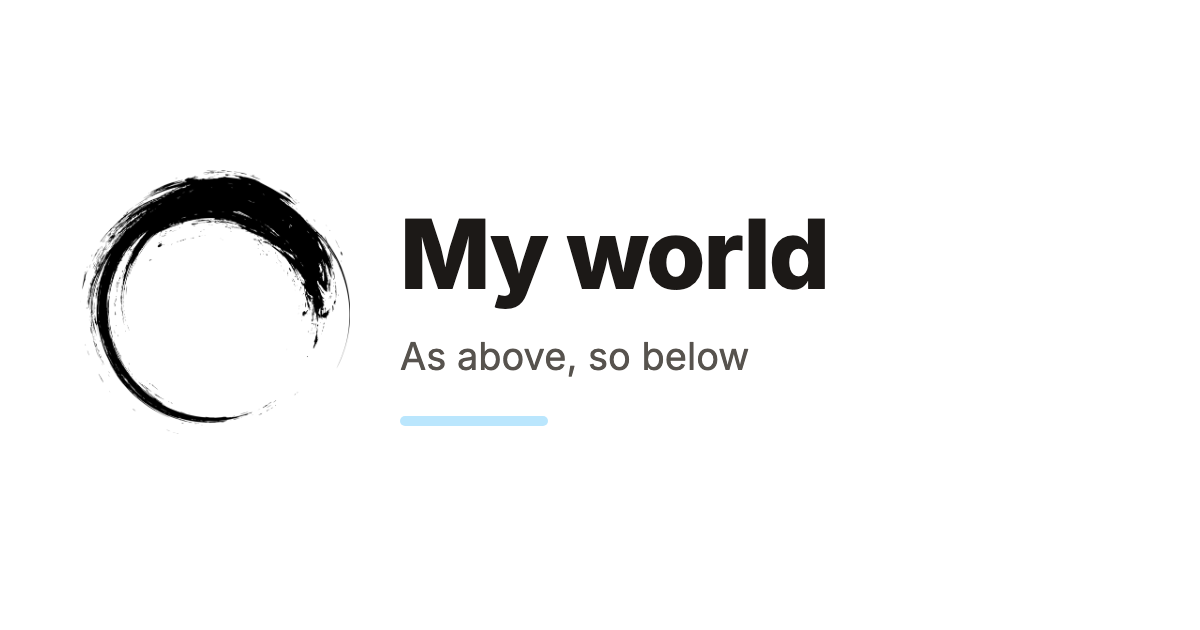
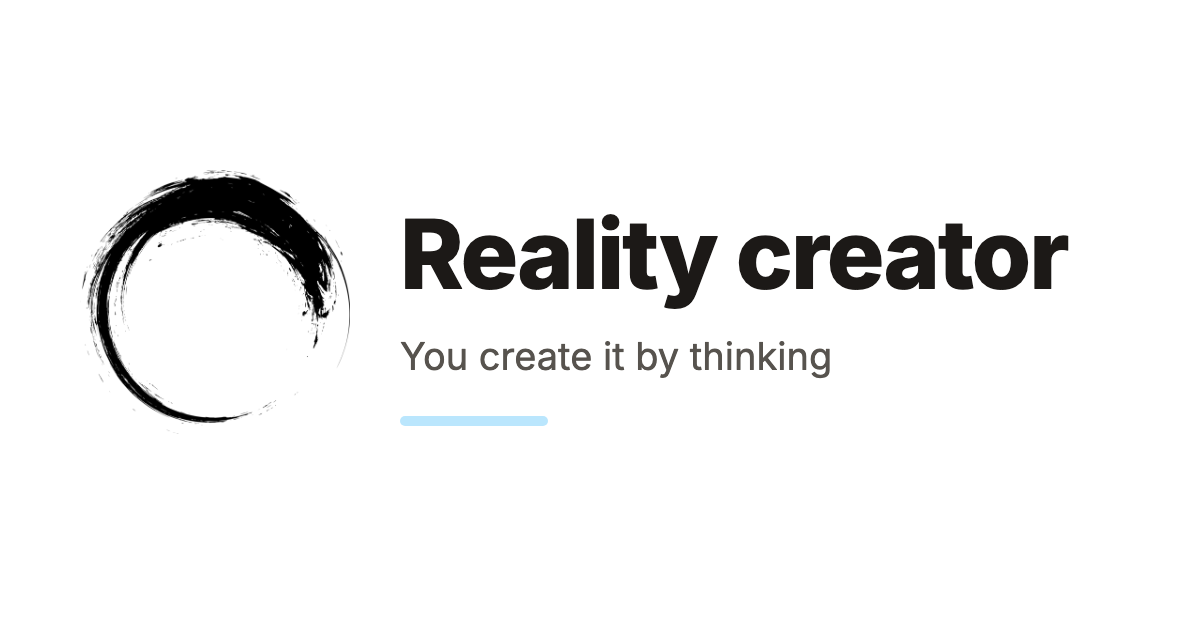
build

Changed region(s): [[0.3392, 0.3317, 0.8942, 0.5127], [0.3392, 0.5429, 0.7092, 0.6032]]

diff --git a/ru/my-world.html b/ru/my-world.html
@@ -15,11 +15,11 @@
 <link rel="stylesheet" href="https://fonts.googleapis.com/css2?family=Inter:ital,opsz,wght@0,14..32,100..900;1,14..32,100..900&display=swap" />
 
 <!-- Begin Bridgetown SEO tag v7.0.1 -->
-<title>Мой мир | tellothers.com</title>
-<meta property="og:title" content="Мой мир" />
+<title>Создатель реальности | tellothers.com</title>
+<meta property="og:title" content="Создатель реальности" />
 <meta property="og:locale" content="ru_RU" />
-<meta name="description" content="Что вверху, то и внизу. Мир — это на самом деле проекция сознания. Можно просто представить новую версию мира и начать в ней жить." />
-<meta property="og:description" content="Что вверху, то и внизу. Мир — это на самом деле проекция сознания. Можно просто представить новую версию мира и начать в ней жить." />
+<meta name="description" content="Думая, ты её создаёшь. Мир — это на самом деле проекция сознания. Можно просто представить новую версию мира и начать в ней жить." />
+<meta property="og:description" content="Думая, ты её создаёшь. Мир — это на самом деле проекция сознания. Можно просто представить новую версию мира и начать в ней жить." />
 <link rel="canonical" href="https://tellothers.com/ru/my-world" />
 <meta property="og:url" content="https://tellothers.com/ru/my-world" />
 <meta property="og:site_name" content="tellothers.com" />
@@ -28,7 +28,7 @@
 <meta property="article:published_time" content="2026-06-15T03:55:05-07:00" />
 <meta name="twitter:card" content="summary_large_image" />
 <meta property="twitter:image" content="https://tellothers.com/images/og/my-world.ru.png" />
-<meta property="twitter:title" content="Мой мир" />
+<meta property="twitter:title" content="Создатель реальности" />
 <!-- End Bridgetown SEO tag -->
 
 
@@ -38,7 +38,7 @@
 
 <meta property="og:image:width" content="1200" />
 <meta property="og:image:height" content="630" />
-<meta property="og:image:alt" content="Мой мир" />
+<meta property="og:image:alt" content="Создатель реальности" />
 <meta property="og:locale:alternate" content="en_US" />
 
 <script type="application/ld+json">
@@ -95,11 +95,11 @@
       </p>
 
     <h1 class="text-4xl sm:text-5xl font-bold tracking-tight mb-4">
-      Мой мир
+      Создатель реальности
     </h1>
 
       <p class="text-lg sm:text-xl text-stone-500 leading-snug">
-        Что вверху, то и внизу
+        Думая, ты её создаёшь
       </p>
   </header>
 
@@ -131,14 +131,14 @@
 {
   "@context": "https://schema.org",
   "@type": "Article",
-  "name": "Мой мир",
-  "headline": "Мой мир",
-  "description": "Что вверху, то и внизу",
+  "name": "Создатель реальности",
+  "headline": "Создатель реальности",
+  "description": "Думая, ты её создаёшь",
   "url": "https://tellothers.com/ru/my-world",
   "mainEntityOfPage": "https://tellothers.com/ru/my-world",
   "image": "https://tellothers.com/images/og/my-world.ru.png",
   "datePublished": "2026-06-15T17:55:05+07:00",
-  "dateModified": "2026-10-25T23:10:12+07:00",
+  "dateModified": "2026-10-25T23:11:15+07:00",
   "inLanguage": "ru",
   "isPartOf": {
     "@type": "WebSite",

diff --git a/my-world.html b/my-world.html
@@ -15,11 +15,11 @@
 <link rel="stylesheet" href="https://fonts.googleapis.com/css2?family=Inter:ital,opsz,wght@0,14..32,100..900;1,14..32,100..900&display=swap" />
 
 <!-- Begin Bridgetown SEO tag v7.0.1 -->
-<title>My world | tellothers.com</title>
-<meta property="og:title" content="My world" />
+<title>Reality creator | tellothers.com</title>
+<meta property="og:title" content="Reality creator" />
 <meta property="og:locale" content="en_US" />
-<meta name="description" content="As above, so below. The world is a projection of consciousness. You can just imagine a new version of the world and start inhabiting it." />
-<meta property="og:description" content="As above, so below. The world is a projection of consciousness. You can just imagine a new version of the world and start inhabiting it." />
+<meta name="description" content="You create it by thinking. The world is a projection of consciousness. You can just imagine a new version of the world and start inhabiting it." />
+<meta property="og:description" content="You create it by thinking. The world is a projection of consciousness. You can just imagine a new version of the world and start inhabiting it." />
 <link rel="canonical" href="https://tellothers.com/my-world" />
 <meta property="og:url" content="https://tellothers.com/my-world" />
 <meta property="og:site_name" content="tellothers.com" />
@@ -28,7 +28,7 @@
 <meta property="article:published_time" content="2026-06-15T03:55:05-07:00" />
 <meta name="twitter:card" content="summary_large_image" />
 <meta property="twitter:image" content="https://tellothers.com/images/og/my-world.en.png" />
-<meta property="twitter:title" content="My world" />
+<meta property="twitter:title" content="Reality creator" />
 <!-- End Bridgetown SEO tag -->
 
 
@@ -38,7 +38,7 @@
 
 <meta property="og:image:width" content="1200" />
 <meta property="og:image:height" content="630" />
-<meta property="og:image:alt" content="My world" />
+<meta property="og:image:alt" content="Reality creator" />
 <meta property="og:locale:alternate" content="ru_RU" />
 
 <script type="application/ld+json">
@@ -95,11 +95,11 @@
       </p>
 
     <h1 class="text-4xl sm:text-5xl font-bold tracking-tight mb-4">
-      My world
+      Reality creator
     </h1>
 
       <p class="text-lg sm:text-xl text-stone-500 leading-snug">
-        As above, so below
+        You create it by thinking
       </p>
   </header>
 
@@ -131,14 +131,14 @@
 {
   "@context": "https://schema.org",
   "@type": "Article",
-  "name": "My world",
-  "headline": "My world",
-  "description": "As above, so below",
+  "name": "Reality creator",
+  "headline": "Reality creator",
+  "description": "You create it by thinking",
   "url": "https://tellothers.com/my-world",
   "mainEntityOfPage": "https://tellothers.com/my-world",
   "image": "https://tellothers.com/images/og/my-world.en.png",
   "datePublished": "2026-06-15T17:55:05+07:00",
-  "dateModified": "2026-10-25T23:10:12+07:00",
+  "dateModified": "2026-10-25T23:11:15+07:00",
   "inLanguage": "en",
   "isPartOf": {
     "@type": "WebSite",

diff --git a/ru/index.html b/ru/index.html
@@ -25,7 +25,7 @@
 <meta property="og:site_name" content="tellothers.com" />
 <meta property="og:image" content="https://tellothers.com/images/og-ru.png" />
 <meta property="og:type" content="article" />
-<meta property="article:published_time" content="2026-10-25T09:10:31-07:00" />
+<meta property="article:published_time" content="2026-10-25T09:11:27-07:00" />
 <meta name="twitter:card" content="summary_large_image" />
 <meta property="twitter:image" content="https://tellothers.com/images/og-ru.png" />
 <meta property="twitter:title" content="Сработало? Скажи другим." />
@@ -336,8 +336,8 @@
 
 
     <a href="/ru/my-world" class="group block no-underline rounded-lg hover:bg-white p-4 transition-all duration-700 ease-out hover:shadow-lg hover:shadow-stone-900/5">
-  <div class="font-sans font-bold text-stone-800 group-hover:text-stone-950 transition duration-700">Мой мир</div>
-    <div class="mt-1 text-sm text-stone-600 leading-snug transition duration-700">Что вверху, то и внизу</div>
+  <div class="font-sans font-bold text-stone-800 group-hover:text-stone-950 transition duration-700">Создатель реальности</div>
+    <div class="mt-1 text-sm text-stone-600 leading-snug transition duration-700">Думая, ты её создаёшь</div>
 </a>
 
 

diff --git a/index.html b/index.html
@@ -25,7 +25,7 @@
 <meta property="og:site_name" content="tellothers.com" />
 <meta property="og:image" content="https://tellothers.com/images/og-en.png" />
 <meta property="og:type" content="article" />
-<meta property="article:published_time" content="2026-10-25T09:10:31-07:00" />
+<meta property="article:published_time" content="2026-10-25T09:11:27-07:00" />
 <meta name="twitter:card" content="summary_large_image" />
 <meta property="twitter:image" content="https://tellothers.com/images/og-en.png" />
 <meta property="twitter:title" content="It worked? Tell others." />
@@ -336,8 +336,8 @@
 
 
     <a href="/my-world" class="group block no-underline rounded-lg hover:bg-white p-4 transition-all duration-700 ease-out hover:shadow-lg hover:shadow-stone-900/5">
-  <div class="font-sans font-bold text-stone-800 group-hover:text-stone-950 transition duration-700">My world</div>
-    <div class="mt-1 text-sm text-stone-600 leading-snug transition duration-700">As above, so below</div>
+  <div class="font-sans font-bold text-stone-800 group-hover:text-stone-950 transition duration-700">Reality creator</div>
+    <div class="mt-1 text-sm text-stone-600 leading-snug transition duration-700">You create it by thinking</div>
 </a>
 
 

diff --git a/ru/maya.html b/ru/maya.html
@@ -148,8 +148,8 @@
       </p>
       <div class="grid sm:grid-cols-2 gap-3 -mx-4">
             <a href="/ru/my-world" class="group block no-underline rounded-lg hover:bg-white p-4 transition-all duration-700 ease-out hover:shadow-lg hover:shadow-stone-900/5">
-  <div class="font-sans font-bold text-stone-800 group-hover:text-stone-950 transition duration-700">Мой мир</div>
-    <div class="mt-1 text-sm text-stone-600 leading-snug transition duration-700">Что вверху, то и внизу</div>
+  <div class="font-sans font-bold text-stone-800 group-hover:text-stone-950 transition duration-700">Создатель реальности</div>
+    <div class="mt-1 text-sm text-stone-600 leading-snug transition duration-700">Думая, ты её создаёшь</div>
 </a>
 
             <a href="/ru/dont-believe-thoughts" class="group block no-underline rounded-lg hover:bg-white p-4 transition-all duration-700 ease-out hover:shadow-lg hover:shadow-stone-900/5">

diff --git a/ru/dark-matter.html b/ru/dark-matter.html
@@ -158,8 +158,8 @@
       </p>
       <div class="grid sm:grid-cols-2 gap-3 -mx-4">
             <a href="/ru/my-world" class="group block no-underline rounded-lg hover:bg-white p-4 transition-all duration-700 ease-out hover:shadow-lg hover:shadow-stone-900/5">
-  <div class="font-sans font-bold text-stone-800 group-hover:text-stone-950 transition duration-700">Мой мир</div>
-    <div class="mt-1 text-sm text-stone-600 leading-snug transition duration-700">Что вверху, то и внизу</div>
+  <div class="font-sans font-bold text-stone-800 group-hover:text-stone-950 transition duration-700">Создатель реальности</div>
+    <div class="mt-1 text-sm text-stone-600 leading-snug transition duration-700">Думая, ты её создаёшь</div>
 </a>
 
             <a href="/ru/see-wider" class="group block no-underline rounded-lg hover:bg-white p-4 transition-all duration-700 ease-out hover:shadow-lg hover:shadow-stone-900/5">

diff --git a/ru/best-world.html b/ru/best-world.html
@@ -148,8 +148,8 @@
       </p>
       <div class="grid sm:grid-cols-2 gap-3 -mx-4">
             <a href="/ru/my-world" class="group block no-underline rounded-lg hover:bg-white p-4 transition-all duration-700 ease-out hover:shadow-lg hover:shadow-stone-900/5">
-  <div class="font-sans font-bold text-stone-800 group-hover:text-stone-950 transition duration-700">Мой мир</div>
-    <div class="mt-1 text-sm text-stone-600 leading-snug transition duration-700">Что вверху, то и внизу</div>
+  <div class="font-sans font-bold text-stone-800 group-hover:text-stone-950 transition duration-700">Создатель реальности</div>
+    <div class="mt-1 text-sm text-stone-600 leading-snug transition duration-700">Думая, ты её создаёшь</div>
 </a>
 
             <a href="/ru/mine-joy" class="group block no-underline rounded-lg hover:bg-white p-4 transition-all duration-700 ease-out hover:shadow-lg hover:shadow-stone-900/5">

diff --git a/ru/karma.html b/ru/karma.html
@@ -150,8 +150,8 @@
       </p>
       <div class="grid sm:grid-cols-2 gap-3 -mx-4">
             <a href="/ru/my-world" class="group block no-underline rounded-lg hover:bg-white p-4 transition-all duration-700 ease-out hover:shadow-lg hover:shadow-stone-900/5">
-  <div class="font-sans font-bold text-stone-800 group-hover:text-stone-950 transition duration-700">Мой мир</div>
-    <div class="mt-1 text-sm text-stone-600 leading-snug transition duration-700">Что вверху, то и внизу</div>
+  <div class="font-sans font-bold text-stone-800 group-hover:text-stone-950 transition duration-700">Создатель реальности</div>
+    <div class="mt-1 text-sm text-stone-600 leading-snug transition duration-700">Думая, ты её создаёшь</div>
 </a>
 
             <a href="/ru/krishna" class="group block no-underline rounded-lg hover:bg-white p-4 transition-all duration-700 ease-out hover:shadow-lg hover:shadow-stone-900/5">

diff --git a/ru/life-shelves.html b/ru/life-shelves.html
@@ -146,8 +146,8 @@
       </p>
       <div class="grid sm:grid-cols-2 gap-3 -mx-4">
             <a href="/ru/my-world" class="group block no-underline rounded-lg hover:bg-white p-4 transition-all duration-700 ease-out hover:shadow-lg hover:shadow-stone-900/5">
-  <div class="font-sans font-bold text-stone-800 group-hover:text-stone-950 transition duration-700">Мой мир</div>
-    <div class="mt-1 text-sm text-stone-600 leading-snug transition duration-700">Что вверху, то и внизу</div>
+  <div class="font-sans font-bold text-stone-800 group-hover:text-stone-950 transition duration-700">Создатель реальности</div>
+    <div class="mt-1 text-sm text-stone-600 leading-snug transition duration-700">Думая, ты её создаёшь</div>
 </a>
 
             <a href="/ru/desire" class="group block no-underline rounded-lg hover:bg-white p-4 transition-all duration-700 ease-out hover:shadow-lg hover:shadow-stone-900/5">

diff --git a/ru/mine-joy.html b/ru/mine-joy.html
@@ -203,8 +203,8 @@
 </a>
 
             <a href="/ru/my-world" class="group block no-underline rounded-lg hover:bg-white p-4 transition-all duration-700 ease-out hover:shadow-lg hover:shadow-stone-900/5">
-  <div class="font-sans font-bold text-stone-800 group-hover:text-stone-950 transition duration-700">Мой мир</div>
-    <div class="mt-1 text-sm text-stone-600 leading-snug transition duration-700">Что вверху, то и внизу</div>
+  <div class="font-sans font-bold text-stone-800 group-hover:text-stone-950 transition duration-700">Создатель реальности</div>
+    <div class="mt-1 text-sm text-stone-600 leading-snug transition duration-700">Думая, ты её создаёшь</div>
 </a>
 
             <a href="/ru/work-for-yourself" class="group block no-underline rounded-lg hover:bg-white p-4 transition-all duration-700 ease-out hover:shadow-lg hover:shadow-stone-900/5">

diff --git a/ru/question-reality.html b/ru/question-reality.html
@@ -165,8 +165,8 @@
 </a>
 
             <a href="/ru/my-world" class="group block no-underline rounded-lg hover:bg-white p-4 transition-all duration-700 ease-out hover:shadow-lg hover:shadow-stone-900/5">
-  <div class="font-sans font-bold text-stone-800 group-hover:text-stone-950 transition duration-700">Мой мир</div>
-    <div class="mt-1 text-sm text-stone-600 leading-snug transition duration-700">Что вверху, то и внизу</div>
+  <div class="font-sans font-bold text-stone-800 group-hover:text-stone-950 transition duration-700">Создатель реальности</div>
+    <div class="mt-1 text-sm text-stone-600 leading-snug transition duration-700">Думая, ты её создаёшь</div>
 </a>
 
             <a href="/ru/brain-receiver" class="group block no-underline rounded-lg hover:bg-white p-4 transition-all duration-700 ease-out hover:shadow-lg hover:shadow-stone-900/5">

diff --git a/ru/free-will.html b/ru/free-will.html
@@ -160,8 +160,8 @@
 </a>
 
             <a href="/ru/my-world" class="group block no-underline rounded-lg hover:bg-white p-4 transition-all duration-700 ease-out hover:shadow-lg hover:shadow-stone-900/5">
-  <div class="font-sans font-bold text-stone-800 group-hover:text-stone-950 transition duration-700">Мой мир</div>
-    <div class="mt-1 text-sm text-stone-600 leading-snug transition duration-700">Что вверху, то и внизу</div>
+  <div class="font-sans font-bold text-stone-800 group-hover:text-stone-950 transition duration-700">Создатель реальности</div>
+    <div class="mt-1 text-sm text-stone-600 leading-snug transition duration-700">Думая, ты её создаёшь</div>
 </a>
 
             <a href="/ru/stop-doubting" class="group block no-underline rounded-lg hover:bg-white p-4 transition-all duration-700 ease-out hover:shadow-lg hover:shadow-stone-900/5">
